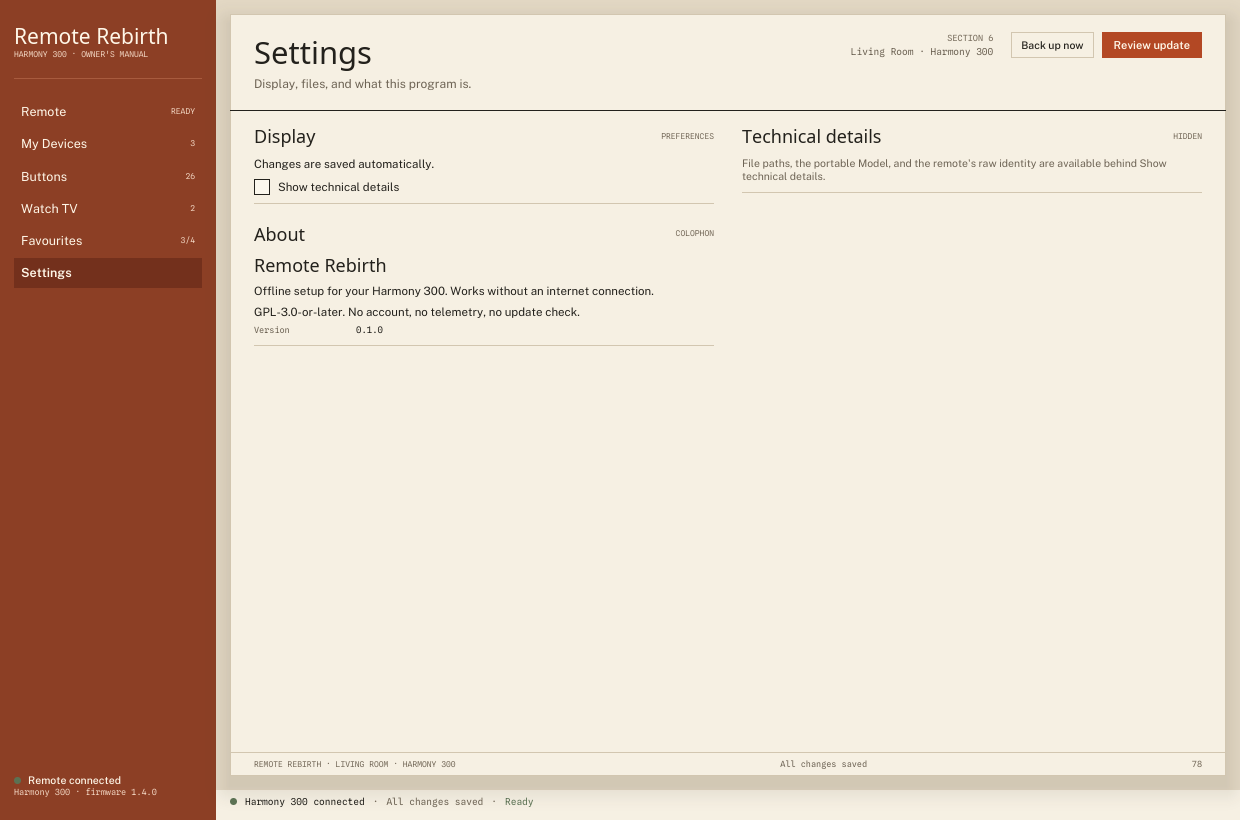
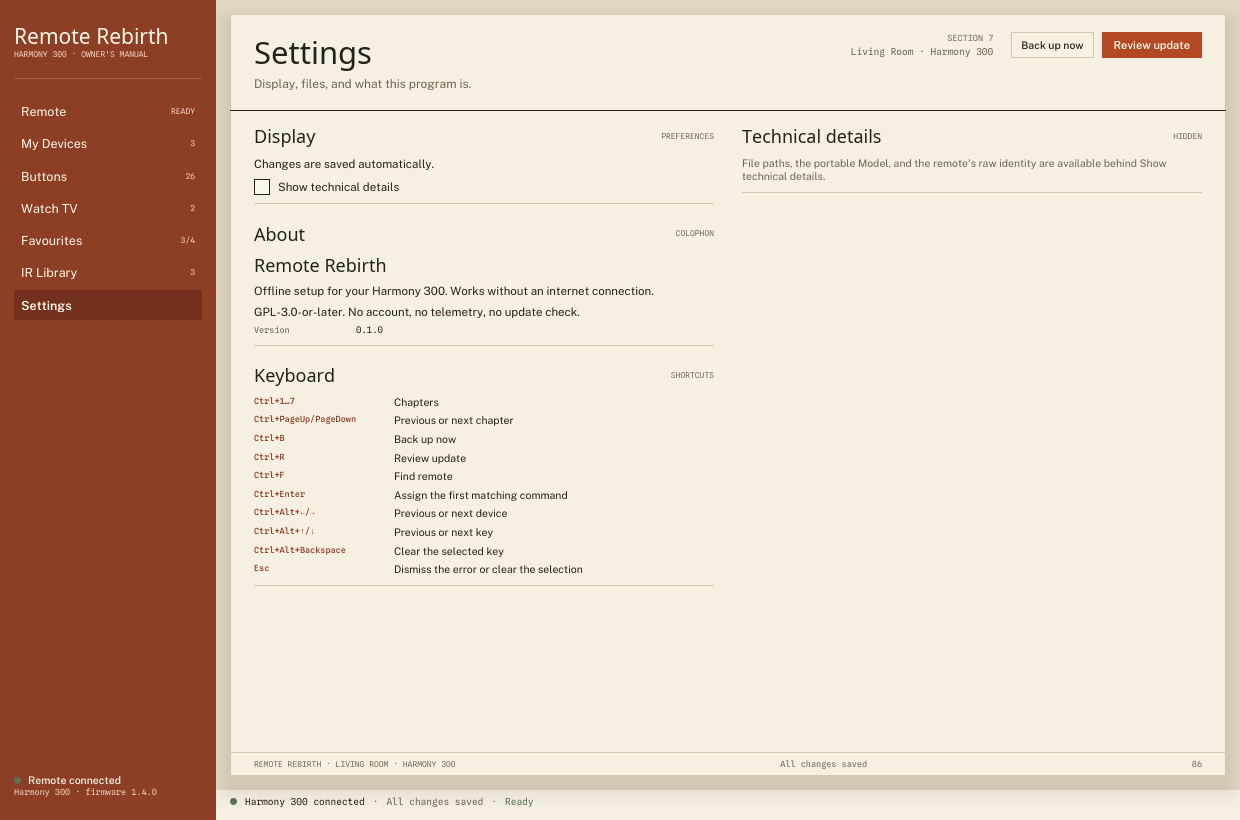
fix(gui): polish the library page and refresh the seven-page captures
- select the first indexed device, persist the chosen library folder and remove duplicate status text
- colour inherited diagram keys in cobalt
- recapture every page with the IR Library chapter in the rail

diff --git a/crates/gui/src/views.rs b/crates/gui/src/views.rs
@@ -1452,11 +1452,18 @@ fn remote_diagram(app: &App) -> Element<'_, Message> {
         for (offset, binding) in chunk.iter().enumerate() {
             let index = chunk_index * KEY_COLUMNS + offset + 1;
             let is_selected = selected == Some(binding.name);
-            let inherited = routed_target(&app.model, binding.name, &device_name);
+            let inherited = routed_target(&app.model, binding.name, &device_name).is_some();
             let empty = app
                 .selected_device()
                 .map(|device| !device.keys.contains_key(binding.name))
                 .unwrap_or(true);
+            let label_color = if is_selected {
+                t::CREAM
+            } else if inherited {
+                t::COBALT
+            } else {
+                t::INK
+            };
             let content = row![
                 text(format!("{index:02}"))
                     .font(t::mono(Weight::Normal))
@@ -1465,7 +1472,7 @@ fn remote_diagram(app: &App) -> Element<'_, Message> {
                 text(key_short(binding.name))
                     .font(t::sans(Weight::Medium))
                     .size(7.2)
-                    .color(if is_selected { t::CREAM } else { t::INK }),
+                    .color(label_color),
             ]
             .spacing(4)
             .align_y(Alignment::Center);
@@ -1473,8 +1480,8 @@ fn remote_diagram(app: &App) -> Element<'_, Message> {
                 .width(Fill)
                 .height(Length::Fixed(20.0))
                 .padding([0, 4])
-                .style(t::key(is_selected, inherited.is_some(), empty));
-            if !app.busy && inherited.is_none() {
+                .style(t::key(is_selected, inherited, empty));
+            if !app.busy && !inherited {
                 key = key.on_press(Message::SelectKey(binding.name.into()));
             }
             cells.push(key.into());
@@ -2100,6 +2107,11 @@ fn library_page(app: &App) -> Element<'_, Message> {
         None => iced::widget::Space::new().height(0).into(),
     };
     let total_commands: usize = app.library.iter().map(|device| device.commands.len()).sum();
+    let library_status: Element<'_, Message> = if app.library_status.is_empty() {
+        iced::widget::Space::new().height(0).into()
+    } else {
+        note(&app.library_status)
+    };
     let source = section(
         "Source",
         Some("LOCAL FOLDER"),
@@ -2117,7 +2129,7 @@ fn library_page(app: &App) -> Element<'_, Message> {
             ]
             .spacing(6)
             .align_y(Alignment::Center),
-            note(&app.library_status),
+            library_status,
             note(format!(
                 "{} devices · {} commands indexed",
                 app.library.len(),
@@ -2283,7 +2295,9 @@ fn library_detail(app: &App) -> Element<'_, Message> {
     if target.is_none() {
         content = content.push(note("Choose a device on My Devices first."));
     }
-    content = content.push(note(&app.library_status));
+    if !app.library_status.is_empty() {
+        content = content.push(note(&app.library_status));
+    }
     if let Some(error) = &app.library_error {
         content = content.push(
             text(error.to_string())

diff --git a/crates/gui/src/main.rs b/crates/gui/src/main.rs
@@ -199,6 +199,8 @@ struct GuiState {
     reboot: bool,
     #[serde(default)]
     advanced: bool,
+    #[serde(default)]
+    library_dir: Option<String>,
 }
 
 fn default_page() -> u8 {
@@ -217,6 +219,7 @@ impl Default for GuiState {
             selected_key: None,
             reboot: true,
             advanced: false,
+            library_dir: None,
         }
     }
 }
@@ -326,12 +329,16 @@ impl App {
             }
         };
         let backups = list_backups(&backups_dir);
-        let library_dir = data_dir.join("ir-library");
+        let library_dir = gui_state
+            .library_dir
+            .as_deref()
+            .map(PathBuf::from)
+            .unwrap_or_else(|| data_dir.join("ir-library"));
         let library = scan_library(&library_dir).unwrap_or_default();
         let library_status = if library.is_empty() {
             "No local IR Library yet. Choose a folder and Scan.".to_string()
         } else {
-            format!("{} devices indexed.", library.len())
+            String::new()
         };
         let library_selected = (!library.is_empty()).then_some(0);
         let selected_device = gui_state
@@ -1039,7 +1046,7 @@ impl App {
                         self.library_status = if devices.is_empty() {
                             "No .ir files with named commands found.".to_string()
                         } else {
-                            format!("{} devices indexed.", devices.len())
+                            "Scan complete.".to_string()
                         };
                         self.library_selected = (!devices.is_empty()).then_some(0);
                         self.library = devices;
@@ -1568,6 +1575,7 @@ impl App {
             selected_key: self.selected_key.clone(),
             reboot: self.reboot,
             advanced: self.advanced,
+            library_dir: Some(self.library_dir.clone()),
         };
         if let Ok(bytes) = serde_json::to_vec_pretty(&state) {
             let _ = std::fs::write(&self.gui_path, bytes);
